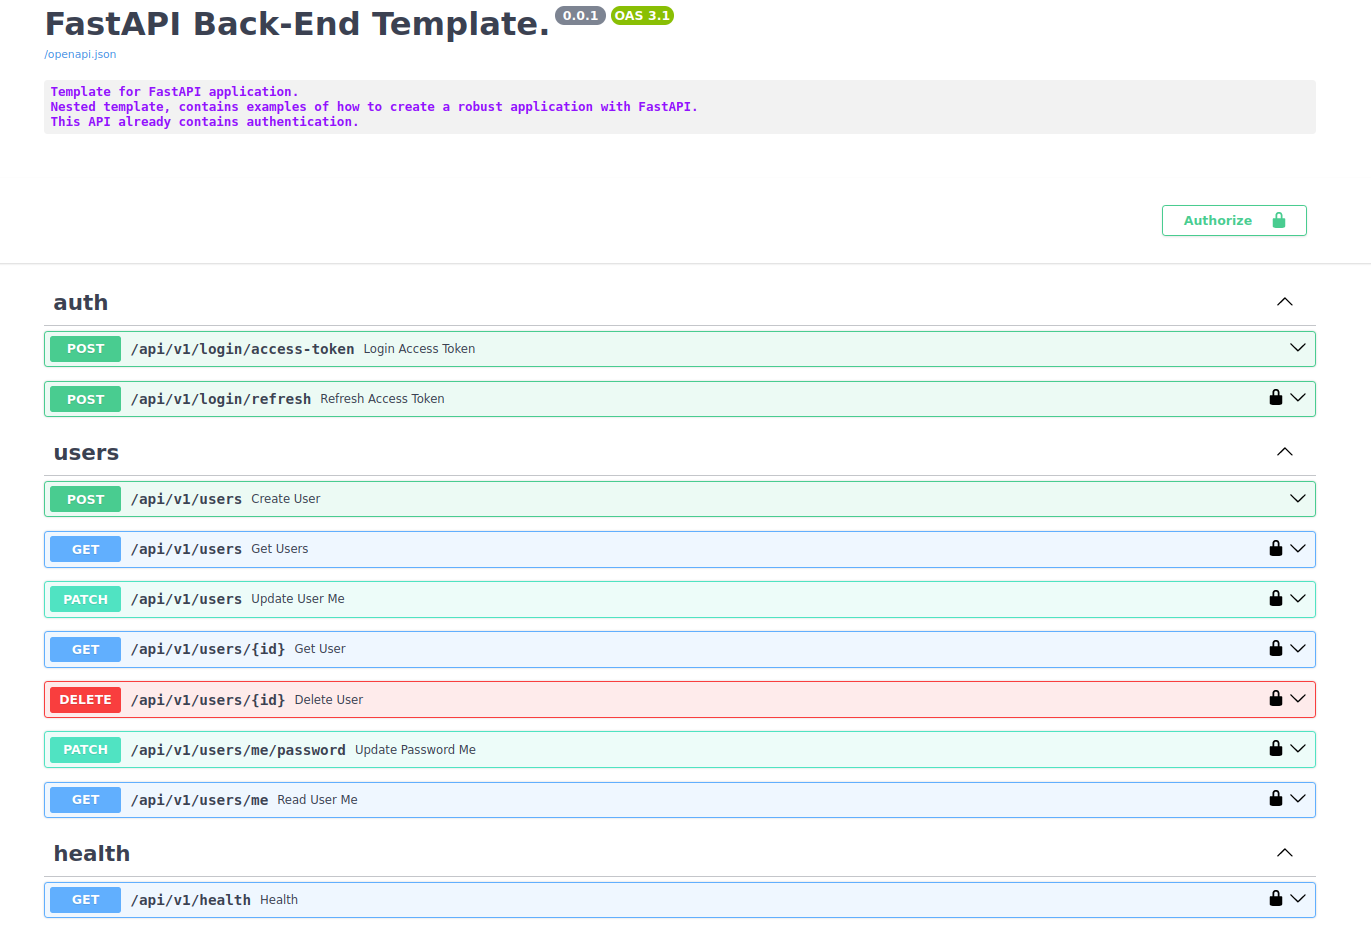
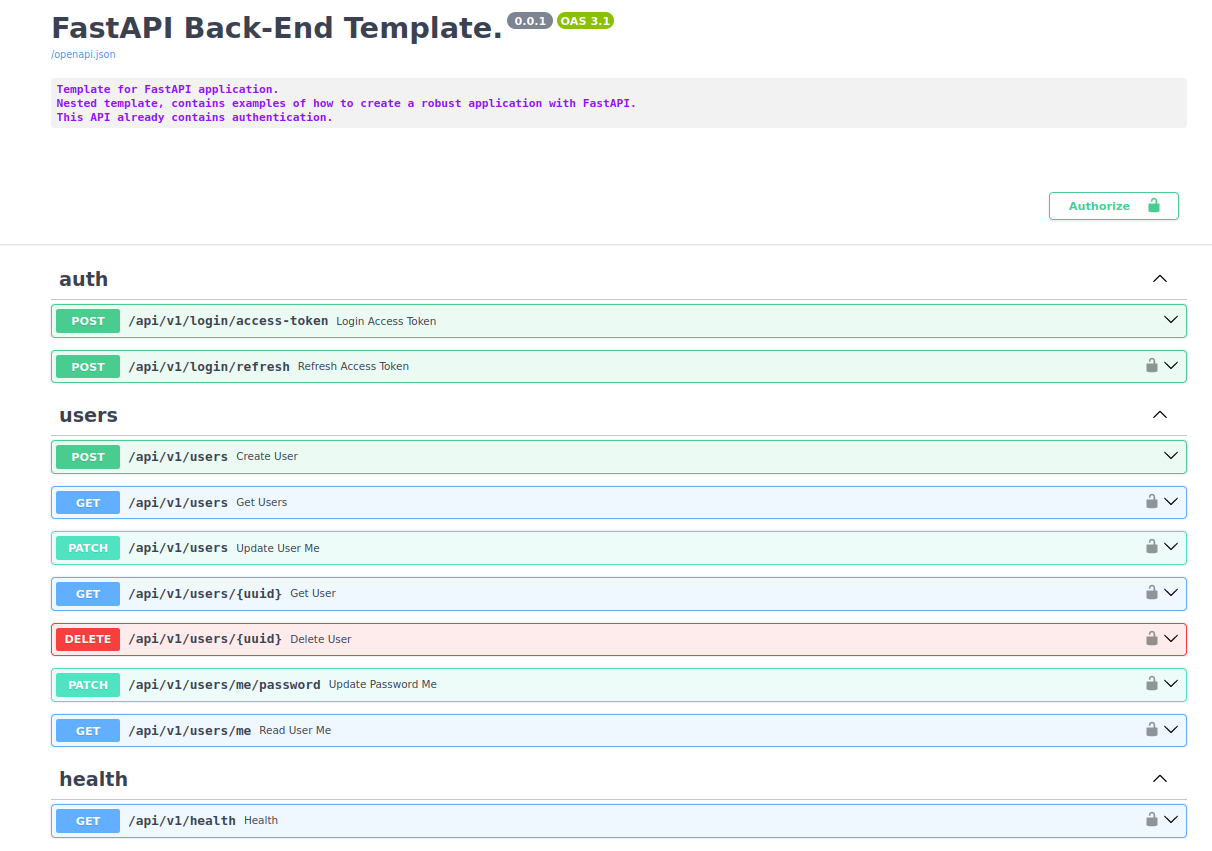
change: test logger workflowns

Changed region(s): [[0.0305, 0.3055, 0.9769, 1.0], [0.0305, 0.0, 0.519, 0.1528], [0.8548, 0.2139, 0.9769, 0.275]]

diff --git a/app/tests/api/routes/test_users.py b/app/tests/api/routes/test_users.py
@@ -3,8 +3,25 @@ from fastapi import status
 from httpx import AsyncClient
 
 from app.core.settings import get_settings
+from app.tests.utils.user import user_date_create
 
 settings = get_settings()
+
+
+@pytest.mark.anyio
+async def test_user_create(client: AsyncClient) -> None:
+    response = await client.post(
+        f"{settings.API_V1_STR}/users", json=user_date_create
+    )
+    data = response.json()
+
+    assert response.status_code == status.HTTP_201_CREATED
+    assert data["uuid"]
+    assert data["email"]
+    assert data["full_name"]
+
+    assert data["is_active"] == True
+    assert data["is_superuser"] == False
 
 
 @pytest.mark.anyio
@@ -34,8 +51,13 @@ async def test_get_all_users(
 async def test_get_user(
     client: AsyncClient, token_headers: dict[str, str]
 ) -> None:
+    resposen_users = await client.get(
+        f"{settings.API_V1_STR}/users", headers=token_headers
+    )
+
+    uuid: str = resposen_users.json()["items"][1]["uuid"]
     response = await client.get(
-        f"{settings.API_V1_STR}/users/1", headers=token_headers
+        f"{settings.API_V1_STR}/users/{uuid}", headers=token_headers
     )
 
     assert response.status_code == status.HTTP_200_OK
@@ -47,7 +69,8 @@ async def test_get_user_not_found(
     client: AsyncClient, token_headers: dict[str, str]
 ) -> None:
     response = await client.get(
-        f"{settings.API_V1_STR}/users/999999999999", headers=token_headers
+        f"{settings.API_V1_STR}/users/248ac98f-552e-4b33-aa66-c36e6024cec3",
+        headers=token_headers,
     )
 
     assert response.status_code == status.HTTP_404_NOT_FOUND
@@ -57,8 +80,13 @@ async def test_get_user_not_found(
 async def test_delete_user(
     client: AsyncClient, token_headers: dict[str, str]
 ) -> None:
+
+    data = await client.get(
+        f"{settings.API_V1_STR}/users", headers=token_headers
+    )
+    uuid = data.json()["items"][0]["uuid"]
     response = await client.delete(
-        f"{settings.API_V1_STR}/users/1", headers=token_headers
+        f"{settings.API_V1_STR}/users/{uuid}", headers=token_headers
     )
 
     assert response.status_code == status.HTTP_200_OK

diff --git a/alembic/versions/d049c9f7ea8d_uuid_user.py b/alembic/versions/d049c9f7ea8d_uuid_user.py
@@ -10,8 +10,7 @@ from typing import Sequence, Union
 from alembic import op
 import sqlalchemy as sa
 
-import sqlmodel # Models managers
-
+import sqlmodel  # Models managers
 
 
 # revision identifiers, used by Alembic.
@@ -24,16 +23,20 @@ depends_on: Union[str, Sequence[str], None] = None
 def upgrade() -> None:
     # ### commands auto generated by Alembic - please adjust! ###
     op.create_table('user',
-    sa.Column('uuid', sqlmodel.sql.sqltypes.GUID(), nullable=False),
-    sa.Column('email', sqlmodel.sql.sqltypes.AutoString(), nullable=False),
-    sa.Column('is_active', sa.Boolean(), nullable=False),
-    sa.Column('is_superuser', sa.Boolean(), nullable=False),
-    sa.Column('full_name', sqlmodel.sql.sqltypes.AutoString(), nullable=True),
-    sa.Column('password', sqlmodel.sql.sqltypes.AutoString(), nullable=False),
-    sa.Column('created_at', sa.DateTime(), nullable=False),
-    sa.Column('updated_at', sa.DateTime(), nullable=False),
-    sa.PrimaryKeyConstraint('uuid')
-    )
+                    sa.Column('uuid', sqlmodel.sql.sqltypes.GUID(),
+                              nullable=False),
+                    sa.Column(
+                        'email', sqlmodel.sql.sqltypes.AutoString(), nullable=False),
+                    sa.Column('is_active', sa.Boolean(), nullable=False),
+                    sa.Column('is_superuser', sa.Boolean(), nullable=False),
+                    sa.Column(
+                        'full_name', sqlmodel.sql.sqltypes.AutoString(), nullable=True),
+                    sa.Column('password', sqlmodel.sql.sqltypes.AutoString(),
+                              nullable=False),
+                    sa.Column('created_at', sa.DateTime(), nullable=False),
+                    sa.Column('updated_at', sa.DateTime(), nullable=False),
+                    sa.PrimaryKeyConstraint('uuid')
+                    )
     op.create_index(op.f('ix_user_email'), 'user', ['email'], unique=True)
     op.create_index(op.f('ix_user_uuid'), 'user', ['uuid'], unique=False)
     # ### end Alembic commands ###

diff --git a/alembic/env.py b/alembic/env.py
@@ -13,7 +13,7 @@ from app.models.user import User
 
 settings = get_settings()
 
-DATABASE_URI = settings.DATABASE_URI # sqlalchemy.url 
+DATABASE_URI = settings.DATABASE_URI  # sqlalchemy.url
 
 
 config = context.config
@@ -37,8 +37,8 @@ def run_migrations_offline() -> None:
     script output.
 
     """
-    url = DATABASE_URI # config.get_main_option("sqlalchemy.url")
-    
+    url = DATABASE_URI  # config.get_main_option("sqlalchemy.url")
+
     context.configure(
         url=url,
         target_metadata=target_metadata,
@@ -54,7 +54,8 @@ def do_run_migrations(connection: Connection) -> None:
     context.configure(connection=connection, target_metadata=target_metadata)
 
     with context.begin_transaction():
-        context.configure(connection=connection, target_metadata=target_metadata)
+        context.configure(connection=connection,
+                          target_metadata=target_metadata)
         context.run_migrations()
 
 
@@ -64,15 +65,16 @@ async def run_async_migrations() -> None:
 
     """
     config_section = config.get_section(config.config_ini_section)
-    config_section["sqlalchemy.url"] = DATABASE_URI # config.get_main_option("sqlalchemy.url")
+    # config.get_main_option("sqlalchemy.url")
+    config_section["sqlalchemy.url"] = DATABASE_URI
     connectable = AsyncEngine(
-                engine_from_config(
-                config_section,
-                prefix="sqlalchemy.",
-                poolclass=pool.NullPool,
-                future=True,
-            )
-   )
+        engine_from_config(
+            config_section,
+            prefix="sqlalchemy.",
+            poolclass=pool.NullPool,
+            future=True,
+        )
+    )
 
     async with connectable.connect() as connection:
         await connection.run_sync(do_run_migrations)

diff --git a/app/tests/utils/user.py b/app/tests/utils/user.py
@@ -9,26 +9,35 @@ from app.tests.utils.utils import (random_email, random_lower_string,
 
 settings = get_settings()
 
+user_date_create = {
+    "email": "user@example.com",
+    "password": "insecure!secret@KEY",
+    "full_name": "string",
+
+}
+
+
 async def user_authentication_headers(*, client: AsyncClient, email: str, password: str) -> dict[str, str]:
     data = {"username": email, "password": password}
     response = await client.post(f"{settings.API_V1_STR}/login/access-token", data=data)
     data = response.json()
     return {"Authorization": f"Bearer {data.get("access_token")}"}
-    
+
 
 async def create_random_user(session: Session) -> User:
-    user_in = UserCreate(email=random_email(), password=random_password(), full_name=random_lower_string())
+    user_in = UserCreate(email=random_email(
+    ), password=random_password(), full_name=random_lower_string())
     return await UserRepository.create_user(session, user_in)
 
 
 async def authentication_token_email(*, client: AsyncClient, session: Session, email: str) -> dict[str, str]:
-    
+
     user = await UserRepository.get_user_by_email(session, email)
     password = random_password()
     if not user:
         user = await UserRepository.create_user(session, UserCreate(email=email, password=password))
     else:
-        if not user.id:
-            raise Exception("User id not set")
+        if not user.uuid:
+            raise Exception("User uuid not set")
         user = await UserRepository.update_user_me(session, user, UserUpdate(password=password))
     return await user_authentication_headers(client=client, email=email, password=password)

diff --git a/app/tests/conftest.py b/app/tests/conftest.py
@@ -1,5 +1,5 @@
 import pytest
-from httpx import AsyncClient
+from httpx import ASGITransport, AsyncClient
 from sqlalchemy.orm import sessionmaker
 from sqlmodel import Session, delete
 from sqlmodel.ext.asyncio.session import AsyncSession
@@ -21,17 +21,21 @@ def anyio_backend():
 
 @pytest.fixture(scope="session", autouse=True)
 async def session() -> AsyncSession:  # type: ignore
-    async_session = sessionmaker(engine, class_=AsyncSession, expire_on_commit=False, autoflush=False)
+    async_session = sessionmaker(
+        engine, class_=AsyncSession, expire_on_commit=False, autoflush=False
+    )
     async with async_session() as session:
         await init_db()
         yield session
         statement = delete(User)
         await session.exec(statement)
         await session.commit()
-        
+
+
 @pytest.fixture(scope="session")
 async def client():
-    async with AsyncClient(app=app, base_url="http://0.0.0.0") as client:
+    async with AsyncClient(transport=ASGITransport(app=app), base_url="http://0.0.0.0"
+                           ) as client:
         yield client
 
 

diff --git a/app/tests/utils/utils.py b/app/tests/utils/utils.py
@@ -13,7 +13,7 @@ def random_email() -> str:
 
 
 def random_password() -> str:
-    return ''.join([random.choice(string.ascii_letters + string.digits + string.punctuation ) for n in range(12)])
+    return ''.join([random.choice(string.ascii_letters + string.digits + string.punctuation) for n in range(12)])
 
 
 def random_lower_string() -> str:
@@ -25,7 +25,7 @@ async def get_superuser_token_headers(client: AsyncClient) -> dict[str, str]:
         "email": settings.FIRST_SUPERUSER,
         "password": settings.FIRST_SUPERUSER_PASSWORD
     }
-    
+
     response = await client.post(f"{settings.API_V1_STR}/login/acess-token", json=data).json()
-    
+
     return {"Authorization": f"Bearer {response.get("access_token")}"}

diff --git a/app/middlewares/authentication.py b/app/middlewares/authentication.py
@@ -40,7 +40,7 @@ class BearerTokenAuthBackend(AuthenticationBackend):
             )
         except (ValueError, UnicodeDecodeError, JWTError) as error:
             raise AuthenticationError("Invalid JWT Token.")
-        
+
         async_session = AsyncSession(
             engine, expire_on_commit=False, autoflush=False
         )

diff --git a/app/middlewares/exception_handler.py b/app/middlewares/exception_handler.py
@@ -26,7 +26,7 @@ class ExceptionHandlerMiddleware(BaseHTTPMiddleware):
 
 async def validate_error_exception_handler(
     request: Request, exc: RequestValidationError
-):  
+):
     return JSONResponse(
         status_code=status.HTTP_400_BAD_REQUEST,
         content=jsonable_encoder({"detail": exc.errors(), "body": exc.body}),

diff --git a/app/db/repositories/user.py b/app/db/repositories/user.py
@@ -96,6 +96,6 @@ class UserRepository:
                 status_code=status.HTTP_404_NOT_FOUND, detail="User not found."
             )
 
-        session.delete(user)
+        await session.delete(user)
         await session.commit()
         return Message(detail="User deleted successfully.")

diff --git a/app/middlewares/utils_header.py b/app/middlewares/utils_header.py
@@ -9,5 +9,5 @@ async def header_utils(request: Request, call_next):
     process_time = time.time() - start_time
     response.headers["X-Process-Time"] = str(process_time)
     response.headers["user-agent"] = request.headers["user-agent"]
-    
+
     return response

diff --git a/app/app.py b/app/app.py
@@ -27,7 +27,8 @@ DESCRIPTION_AUTH = settings.DESCRIPTION_AUTH
 
 def custom_generate_unique_id(route: APIRoute) -> str:
     return f"{route.tags[0]}-{route.name}"
-  
+
+
 app = FastAPI(
     debug=DEBUG,
     version=VERSION,

diff --git a/main.py b/main.py
@@ -4,4 +4,5 @@ from app.app import DEBUG, app
 from app.utils.logger import logger
 
 if __name__ == "__main__":
+    logger.info("Starting")
     uvicorn.run("main:app", host="0.0.0.0", port=8000, reload=DEBUG)
